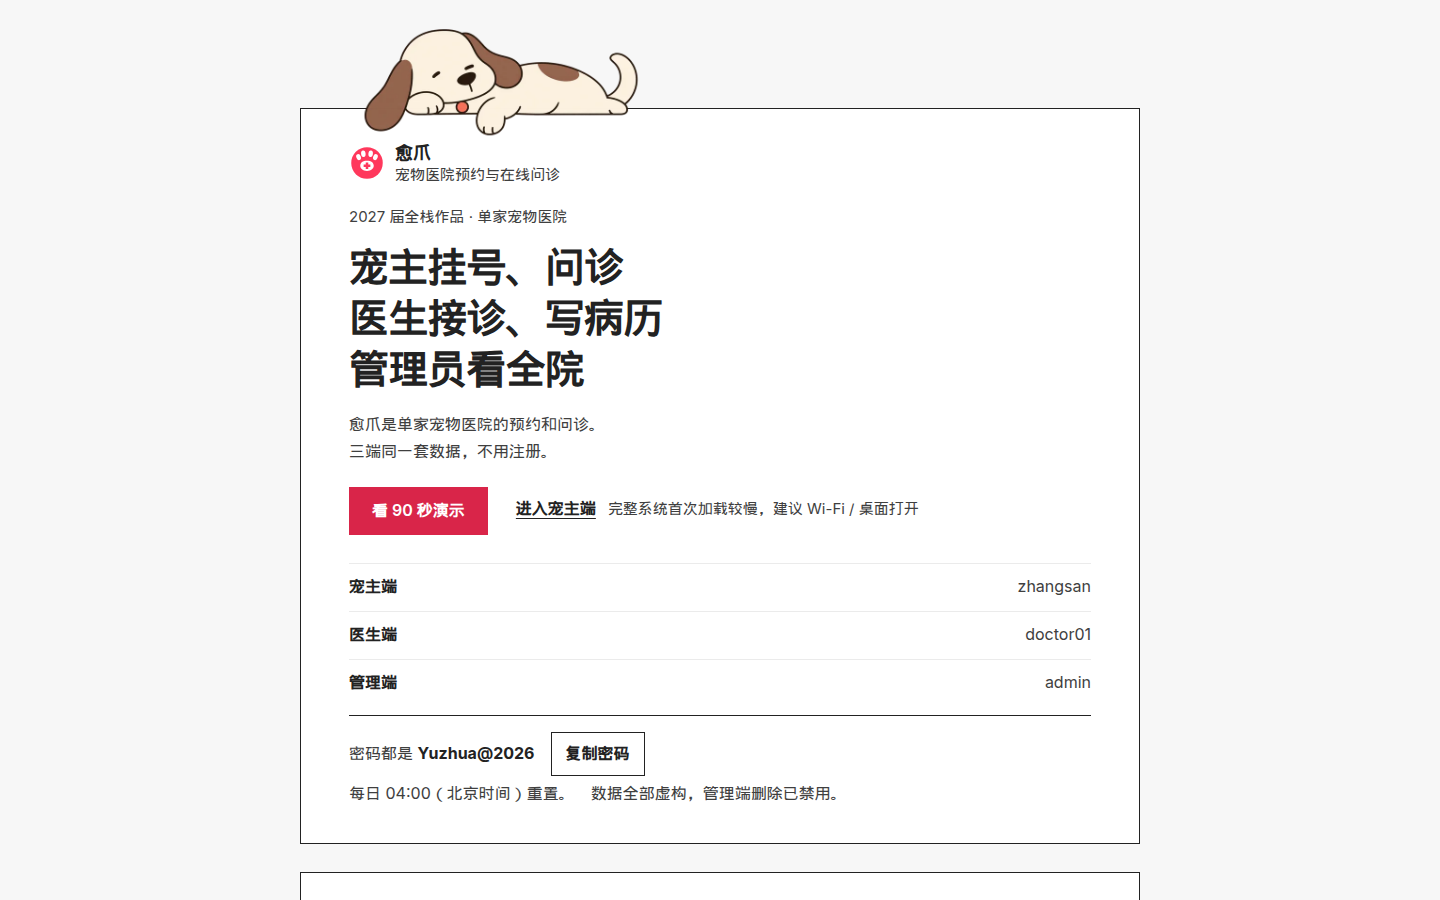
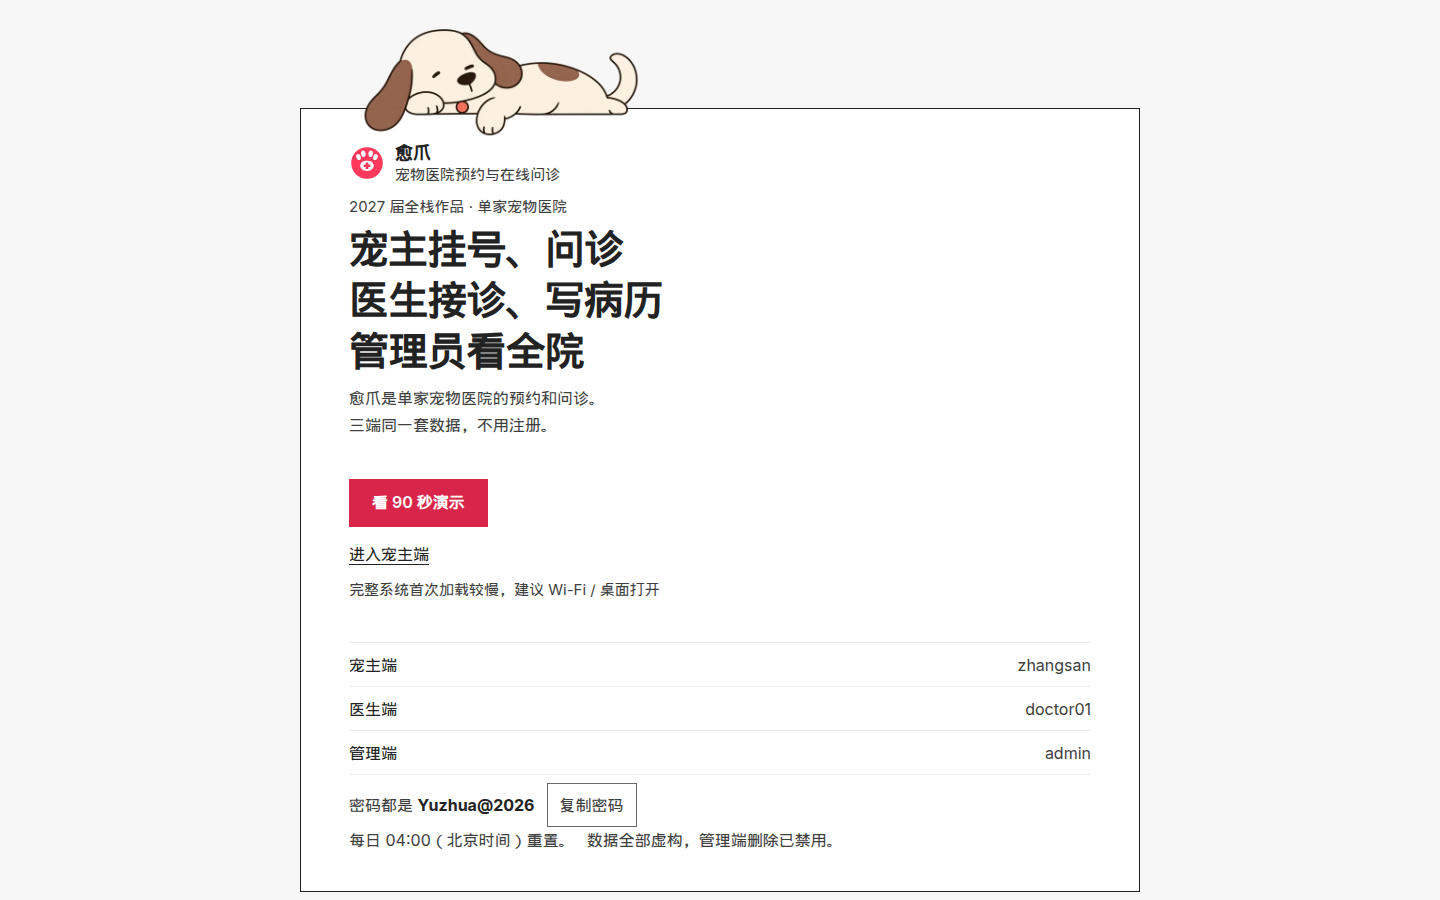
fix(demo): 按主诉、红章、账号三组拉开留白
红章单独成行，次要链接和复制密码减轻重量，账号栏收到纸的下半。

Changed region(s): [[0.2188, 0.2178, 0.625, 0.9644], [0.7188, 0.6222, 0.75, 0.84]]

diff --git a/deploy/demo/agent-draft.html b/deploy/demo/agent-draft.html
@@ -88,7 +88,7 @@
     .lockup-tag { font-size: 15px; color: var(--body); }
 
     .eyebrow {
-      margin: 28px 0 12px;
+      margin: 8px 0 4px;
       font-size: 15px;
       line-height: 1.7;
       color: var(--body);
@@ -98,7 +98,7 @@
     h1 .ln { display: block; }
 
     .lead {
-      margin-top: 16px;
+      margin-top: 8px;
       color: var(--body);
       font-size: 16px;
       line-height: 1.7;
@@ -109,14 +109,14 @@
       display: flex;
       flex-direction: column;
       align-items: flex-start;
-      gap: 10px;
-      margin-top: 22px;
+      gap: 6px;
+      margin-top: 40px;
     }
     .side {
       display: flex;
-      flex-wrap: wrap;
-      align-items: baseline;
-      gap: 4px 12px;
+      flex-direction: column;
+      align-items: flex-start;
+      gap: 0;
     }
 
     .stamp {
@@ -138,7 +138,7 @@
       align-items: center;
       min-height: 44px;
       font-size: 16px;
-      font-weight: 600;
+      font-weight: 400;
       text-decoration: underline;
       text-underline-offset: 4px;
     }
@@ -154,54 +154,55 @@
 
     .doors {
       list-style: none;
-      margin: 28px 0 0;
+      margin: 40px 0 0;
       padding: 0;
     }
     .doors a {
       display: flex;
-      align-items: baseline;
+      align-items: center;
       justify-content: space-between;
       gap: 16px;
-      min-height: 48px;
-      padding: 10px 0;
+      min-height: 44px;
+      padding: 0;
       border-top: 1px solid var(--rule);
       font-size: 16px;
       line-height: 1.5;
+      font-weight: 400;
     }
-    .doors .who { font-weight: 600; }
+    .doors .who { font-weight: 400; }
     .doors .id { color: var(--body); }
 
     .fine {
       display: flex;
       flex-wrap: wrap;
       align-items: center;
-      gap: 8px 16px;
-      margin-top: 8px;
-      padding-top: 16px;
-      border-top: 1px solid var(--ink);
+      gap: 4px 12px;
+      margin-top: 0;
+      padding-top: 8px;
+      border-top: 1px solid var(--rule);
       font-size: 16px;
       line-height: 1.7;
       color: var(--body);
     }
-    .fine + .fine { border-top: 0; padding-top: 0; margin-top: 4px; padding-bottom: 28px; }
+    .fine + .fine { border-top: 0; padding-top: 0; margin-top: 0; padding-bottom: 28px; }
     .nowrap { white-space: nowrap; }
     .pw { color: var(--ink); font-weight: 700; }
 
     .copy {
       min-height: 44px;
-      padding: 0 14px;
-      background: #fff;
-      color: var(--ink);
-      border: 1px solid var(--ink);
-      font: 600 16px/1.2 var(--font);
+      padding: 0 12px;
+      background: transparent;
+      color: var(--body);
+      border: 1px solid #6a6a6a;
+      font: 400 16px/1.2 var(--font);
       cursor: pointer;
     }
     .copy:active { transform: scale(.985); }
 
-    .fold { padding: 8px 32px 40px; }
-    .fold h2 { font-size: 24px; margin: 36px 0 8px; }
+    .fold { padding: 20px 32px 36px; }
+    .fold h2 { font-size: 24px; margin: 0 0 4px; }
     .fold h2 .ln { display: block; }
-    .fold h3 { font-size: 18px; margin: 32px 0 6px; }
+    .fold h3 { font-size: 18px; margin: 28px 0 2px; }
     .intro {
       max-width: 36em;
       color: var(--body);
@@ -210,7 +211,7 @@
     }
 
     .shot {
-      margin: 16px 0 0;
+      margin: 8px 0 0;
       overflow-x: auto;
       max-width: 100%;
       line-height: 0;
@@ -220,7 +221,7 @@
     .phone-shot { width: min(280px, 100%); }
     .phone-shot img { width: 100%; }
     figcaption {
-      margin-top: 8px;
+      margin-top: 4px;
       font-size: 15px;
       line-height: 1.7;
       color: var(--body);
@@ -231,9 +232,9 @@
       display: inline-flex;
       align-items: center;
       min-height: 44px;
-      margin-top: 8px;
+      margin-top: 0;
       font-size: 16px;
-      font-weight: 600;
+      font-weight: 400;
       text-decoration: underline;
       text-underline-offset: 4px;
     }
@@ -273,14 +274,7 @@
       .slip, .fold { padding-left: 48px; padding-right: 48px; }
       .slip { padding-top: 32px; }
       h1 { font-size: 40px; }
-      .eyebrow { margin-top: 18px; }
       .dog { left: 40px; width: 320px; }
-      .stamp-row {
-        flex-direction: row;
-        flex-wrap: wrap;
-        align-items: flex-start;
-        gap: 12px 28px;
-      }
       .stamp { width: auto; }
       .pair { grid-template-columns: 1fr 1fr; align-items: start; }
     }
@@ -288,10 +282,8 @@
     @media (max-width: 799px) {
       .paper { margin-top: 72px; }
       .slip { padding: 22px 20px 4px; }
-      .eyebrow { margin-top: 14px; }
-      .stamp-row { margin-top: 18px; gap: 4px; }
-      .doors { margin-top: 14px; }
-      .doors a { min-height: 44px; padding: 6px 0; }
+      .stamp-row { margin-top: 32px; }
+      .doors { margin-top: 32px; }
       .note-break { display: block; }
       .fine + .fine { padding-bottom: 8px; }
       .stamp, .fold .stamp { width: 100%; }

diff --git a/deploy/demo/agent-notes.md b/deploy/demo/agent-notes.md
@@ -23,6 +23,14 @@
 
 团团这张 WebP 是 680×340，四周有透明留白。不透明像素大约在 (49, 68)–(630, 293)：肚子底边约在图高的 73.5%，最低的前爪约在 86.5%。`.dog` 若用 `translateY(-84%)`，图片盒子只有约 16% 叠进纸里，肚子其实还悬在纸沿上方，桌面的灰会从躯干和尾巴下面露出来。现稿用 `translateY(-70%)`：宽 320px 时肚子约贴进纸里 6px，前爪垂进约 27px。尾巴尖本身向上翘，尖端下面仍有一点灰，那是卷起来的尾巴，不是缝。纸的 `margin-top` 仍是桌面 108px、手机 72px，耳朵没有被视口裁掉，也没有改图。
 
+第一张纸按三组留白，组内紧、组间松，没有改文案：
+
+- 主诉一组：眉题上边距收到 8px、下边距 4px，导语贴在标题下 8px。
+- 动作一组：红章独自成行。章和导语之间桌面 40px、手机 32px。「进入宠主端」改到章下面，字重 400；慢加载说明再另起一行，颜色仍是正文灰，不加粗。
+- 凭证一组：三端账号、密码、重置收在章下面，间隔同样是桌面 40px、手机 32px。账号行高 44px，字重 400，只留发丝线，不像三颗主按钮。「复制密码」去掉粗黑框，改成 1px `#6a6a6a` 描边、字重 400，高度仍是 44px。
+
+第二张纸只收了小节间距：标题贴说明，截图和图说贴在标题下，端与端之间仍留一档空隙。手机宽图继续在纸内左右滑。核对图是 `deploy/demo/agent-shots/viewport-390-second-paper.png`。
+
 ## 字体、色彩、动效
 
 字体栈与 `frontend/src/styles/main.css` 相同，不引外部字体。正文 16px / 1.7，说明 15px / 1.7。按钮高 48px，文字链至少 44px。挂号单用直角和 1px `#222` 外框，无投影。这和产品界面的 16px 圆角不同：纸是演示页自己的物件，截图仍是产品界面。
